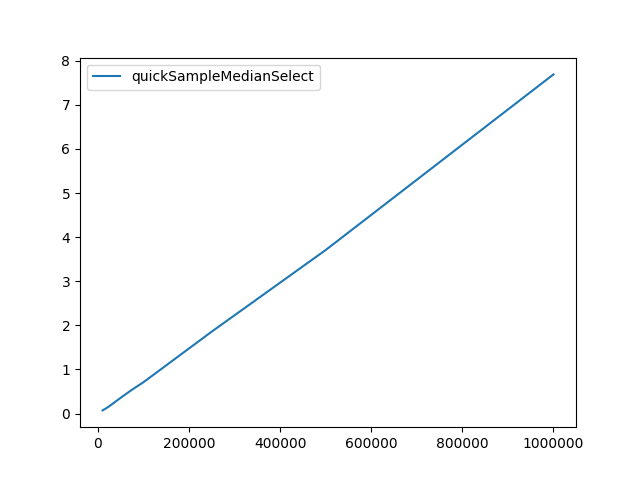
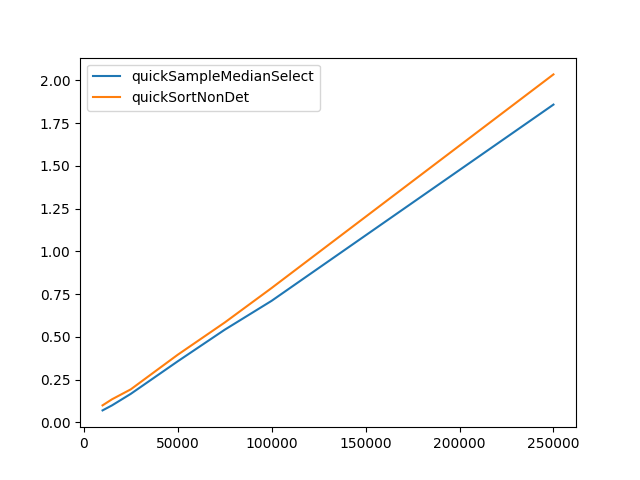
progetto prima bozza ok

diff --git a/progetto/demo.py b/progetto/demo.py
@@ -1,19 +1,17 @@
-# coding: utf-8 
 
-from time import time
+import time
 import random
-from sorting.__init__ import printSwitch
-import progetto.quickSampleMedianSelect as Sort
-import lezioni_sorting.Sorting as Sorting
-import math
+from progetto.quickSampleMedianSelect import quickSortProject as Sort
+import sorting.Sorting as Sorting
 
 
-def sortingTest(*params):
-    l = list(params[0])  # copy the list. Equivalent to l=input[:].
+def sortingTest(*params):               # *params ==
+
+    l = list(params[0])
     numParams = len(params)
     sortingFunction = params[1]
 
-    start = time()
+    start = time.time()
 
     if numParams == 4:
         sortingFunction(l, params[2], params[3])
@@ -22,37 +20,62 @@ def sortingTest(*params):
     else:
         sortingFunction(l)
 
-    # print(l)     # TO PRINT ORDERED LIST
-    return time() - start
+
+    return (time.time() - start)
 
 
 if __name__ == "__main__":
-    # Inizializzazione ----- SORT
-    inputType = 0  # 1 crescente, -1 decrescente, 0 random
-    steps = 1000000
+    # Inizializzazione
+    inputType = 0                    # 1 = lista ordinata crescentemente / -1 = lista ordinata decresentemente / 0 = lista generata casualmente / 2 = lista di tutti elementi uguali
+
+    numElements = 10000
     slowAlgorithms = False
 
 
+    print(f"\n\nTEST PERFORMED ON A LIST OF {numElements} ELEMENTS\n\nslowAlgorithms = {slowAlgorithms}\n")
 
-    # crea lista
-    inputList = [None] * steps
-    for i in range(0, steps):
+    choise = {0: "Random List", 1: "Increasing List", -1: "Decreasing List", 2: "List of only '0'"}
+    for i in choise.keys():
+        if i == inputType:
+            print("inputType: {}".format(choise[i]))
+            break
+
+
+    print("\n-- LIST CREATION --\n\n")
+
+
+    inputList = [None] * numElements
+
+    for i in range(0, numElements):
         if inputType == 1:
             inputList[i] = i
         elif inputType == -1:
-            inputList[i] = steps - i
+            inputList[i] = numElements - i
         elif inputType == 0:
-            inputList[i] = random.randint(0, steps)
+            inputList[i] = random.randint(0, numElements)
+        elif inputType == 2:
+            inputList[i] = 0
         else:
             raise Exception("You used an invalid inputType parameter!")
-    printSwitch.dumpOperations = False
+
+
 
 
     print(inputList)
+    print("\n\n -- LIST CREATED --")
 
-    print("\n\n-------------- PROGETTO -------------------")
-    runningTime = sortingTest(inputList, Sort.quickSortProject)
-    print("PROGETTO: quickSort with sampleMedianSelect required {} seconds.".format(runningTime))
+    print("\n\n-------------- EXECUTION TIME -------------------")
+    runningTime = sortingTest(inputList, Sort)
+    print("QuickSort with sampleMedianSelect required {} seconds.".format(runningTime))
+
+    runningTime = sortingTest(inputList, Sort, 1)
+    print("QuickSort with quickSelectRand required {} seconds.".format(runningTime))
+
+    runningTime = sortingTest(inputList, Sort, 2)
+    print("QuickSort with quickSelectDet required {} seconds.".format(runningTime))
+
+    # runningTime = sortingTest(inputList, Sort.quickSortConSelectDeterministo)
+    # print("QuickSort with quickSelectDet required {} seconds.".format(runningTime))
     print("-------------------------------------------\n\n")
 
 
@@ -71,8 +94,10 @@ if __name__ == "__main__":
 
         print('\n')
 
+
+
     runningTime = sortingTest(inputList, Sorting.quickSortIter, True)
-    print("quickSortIter-Det required     {} seconds.".format(runningTime))
+    print("quickSortIter-Det required  {} seconds.".format(runningTime))
 
     runningTime = sortingTest(inputList, Sorting.quickSortIter)
     print("quickSortIter-NonDet required  {} seconds.".format(runningTime))
@@ -89,20 +114,17 @@ if __name__ == "__main__":
     runningTime = sortingTest(inputList, Sorting.heapSort)
     print("heapSort required {} seconds.".format(runningTime))
 
-    """
-    print("\n\nradix")
+
 
     base = 400
-    runningTime = sortingTest(inputList, Sorting.radixSort, steps, base)
-    print("radixSort({},{}) required {} seconds.".format(steps, base, runningTime))
+    runningTime = sortingTest(inputList, Sorting.radixSort, numElements, base)
+    print("radixSort({},{}) required {} seconds.".format(numElements, base, runningTime))
     base = 100
-    runningTime = sortingTest(inputList, Sorting.radixSort, steps, base)
-    print("radixSort({},{}) required {} seconds.".format(steps, base, runningTime))
+    runningTime = sortingTest(inputList, Sorting.radixSort, numElements, base)
+    print("radixSort({},{}) required {} seconds.".format(numElements, base, runningTime))
     base = 10
-    runningTime = sortingTest(inputList, Sorting.radixSort, steps, base)
-    print("radixSort({},{}) required {} seconds.".format(steps, base, runningTime))
+    runningTime = sortingTest(inputList, Sorting.radixSort, numElements, base)
+    print("radixSort({},{}) required {} seconds.".format(numElements, base, runningTime))
     base = 2
-    runningTime = sortingTest(inputList, Sorting.radixSort, steps, base)
-    print("radixSort({},{}) required {} seconds.".format(steps, base, runningTime))
-    
-    """
+    runningTime = sortingTest(inputList, Sorting.radixSort, numElements, base)
+    print("radixSort({},{}) required {} seconds.".format(numElements, base, runningTime))

diff --git a/progetto/quickSampleMedianSelect.py b/progetto/quickSampleMedianSelect.py
@@ -25,16 +25,16 @@ def sampleMedianSelect(A,left,right, m):
 
 # QUICKSORT ------------------------------------------------------------------------------------------------------------
 
-def quickSortProject(l):
-    recursiveQuickSort(l, 0, len(l) - 1)
+def quickSortProject(l, case = 0):
+    recursiveQuickSort(l, 0, len(l) - 1, case)
 
 
-def recursiveQuickSort(l, left, right):
+def recursiveQuickSort(l, left, right, case):
     if left >= right:
         return
-    pivot = partitionByValue(l, left, right)
-    recursiveQuickSort(l, left, pivot - 1)
-    recursiveQuickSort(l, pivot + 1, right)
+    pivot = partitionByValue(l, left, right, case)
+    recursiveQuickSort(l, left, pivot - 1, case)
+    recursiveQuickSort(l, pivot + 1, right, case)
 
 # END QUICKSORT --------------------------------------------------------------------------------------------------------
 
@@ -44,22 +44,24 @@ def recursiveQuickSort(l, left, right):
 #    - algoritmi di selezione , ritornando l'elemento!!  non ho informazione sulla chiave
 #    - utilizzeremo un indice per memorizzare la chiave del pivot quando incontrata nella scansione
 
-def partitionByValue(l, left, right, case = 0):
+def partitionByValue(l, left, right, case):
     inf = left
     sup = right
     dim = right - left + 1
-    k   = math.ceil(dim / 2)
+    k   = math.ceil(dim / 2)   # parametro k del select
+    #k = random.choice(range(left+1,right+1))
     m   = 5
 
     if(case == 1):
         pivot = Selection.quickSelectRand(l[left:right+1], k)
     elif(case == 2):
-        pivot = Selection.quickSelectDet(l, k, 10)
+        pivot = Selection.quickSelectDet(l[left:right+1], k, 1)
     else:
         pivot = sampleMedianSelect(l, left, right, m)
 
     indexPivot = None   # utilizzato per mantenere la chiave del pivot quando incontrato nella scansione
     while True:
+
         while inf < right and l[inf] <= pivot:
             # se scorrendo da sinistra a destra trovo un valore uguale al pivot, memorizzo l'indice del valore trovato
             if(l[inf]== pivot):
@@ -83,14 +85,15 @@ def partitionByValue(l, left, right, case = 0):
 #  END PARTITION -------------------------------------------------------------------------------------------------------
 
 
-l=[1,20,3,4,6,70,8,9,10,110,12,13,14,3,213,541,52,5,3,643324,1234321,6,454,42,13,214231423,5,6,7,8,1]
+#l=[1,20,3,4,6,70,8,9,10,110,12,13,14,3,213,541,52,5,3,643324,1234321,6,454,42,13,214231423,5,6,7,8,1]
 #l=[1,20,3,44,5,6,70,8,99,10,110,12,14,140,1555]
 #a=l
 #a.sort()
 #print(a)
 #l=[1,20,3,44,5,6,70,8,99,10,110,12,14,140,1555]
-#l=[1,2,3,4,5,6,6,6,3]
-quickSortProject(l)
+l=[3,4,5,6,6,6,3]
+quickSortProject(l,2)
+print(l)
 
 
 

diff --git a/progetto/plotter.py b/progetto/plotter.py
@@ -8,7 +8,7 @@ import numpy as np
 def plot():
 
     #names = ["avl"]#, "binaryTree", "list", "hashTableColl", "hashTableOpen"] #filenames
-    names = ["quickSampleMedianSelect"]
+    names = ["quickSampleMedianSelect","quickSortNonDet"]
 
     c = 0       #color
     for alg in names:
